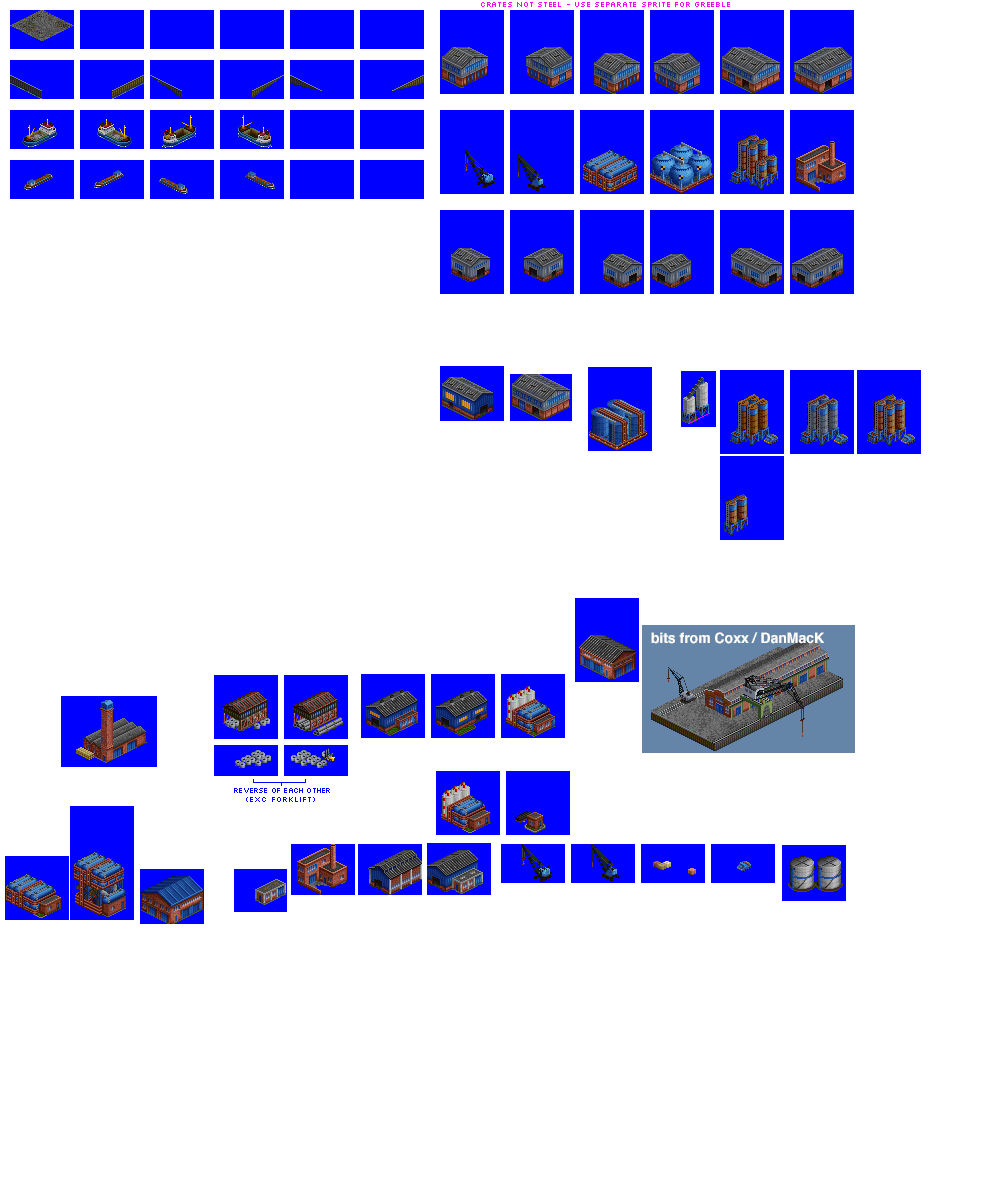
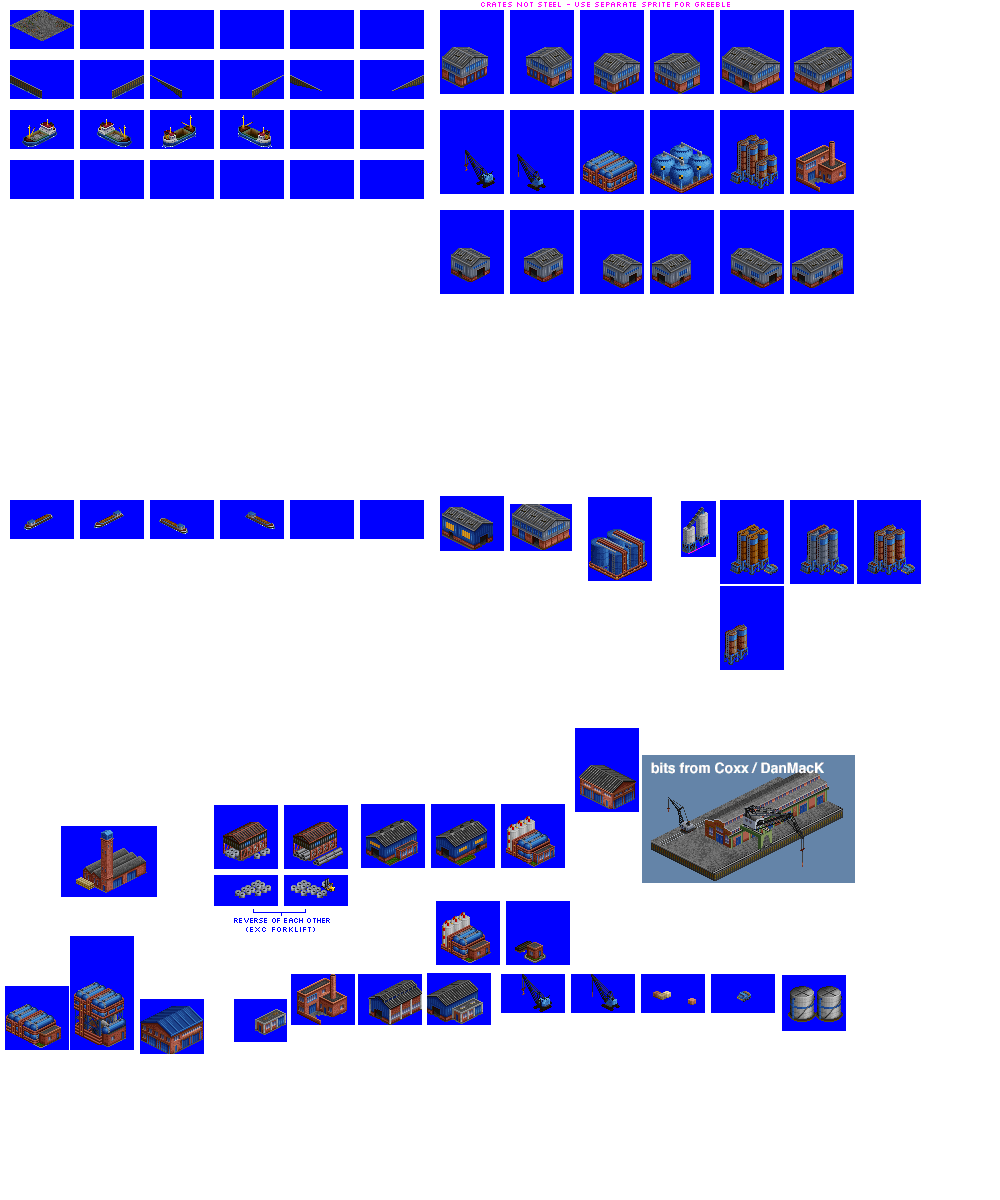
Change: Port sprites complete

diff --git a/src/industries/port.py b/src/industries/port.py
@@ -17,7 +17,7 @@ industry = IndustryPrimaryPort(
     fund_cost_multiplier="152",
     override_default_construction_states=True,
     primary_production_random_factor_set="wide_range",
-    sprites_complete=False,
+    sprites_complete=True,
 )
 
 industry.enable_in_economy(
